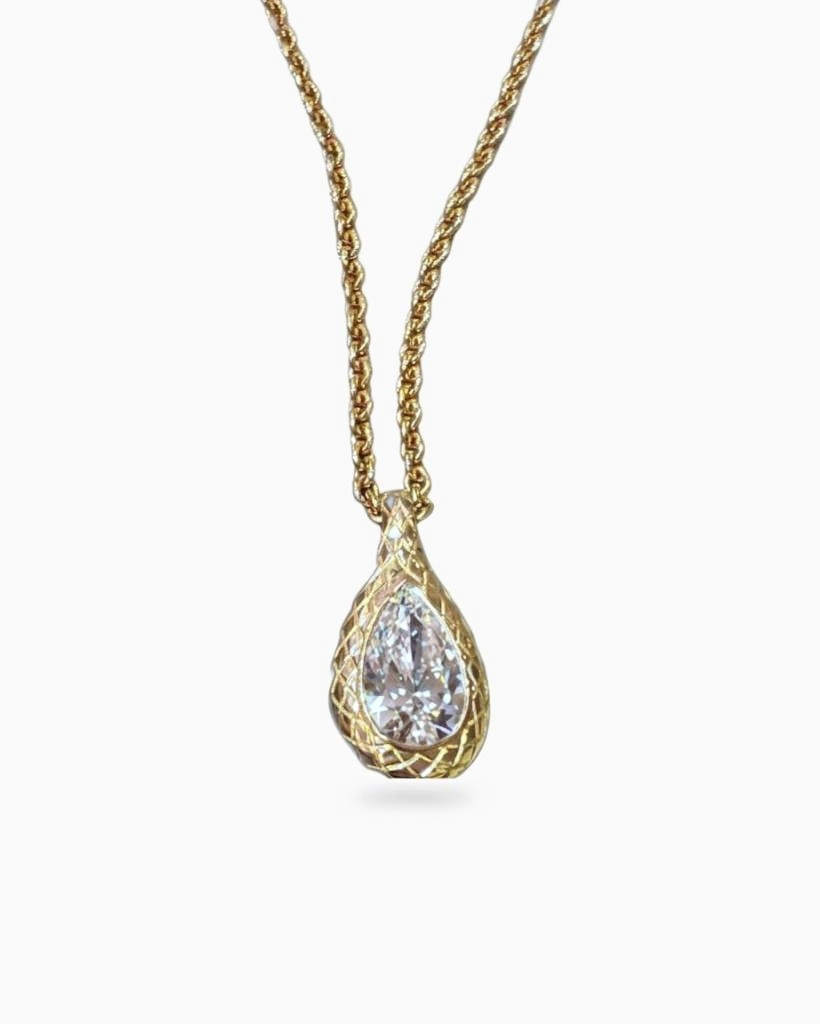
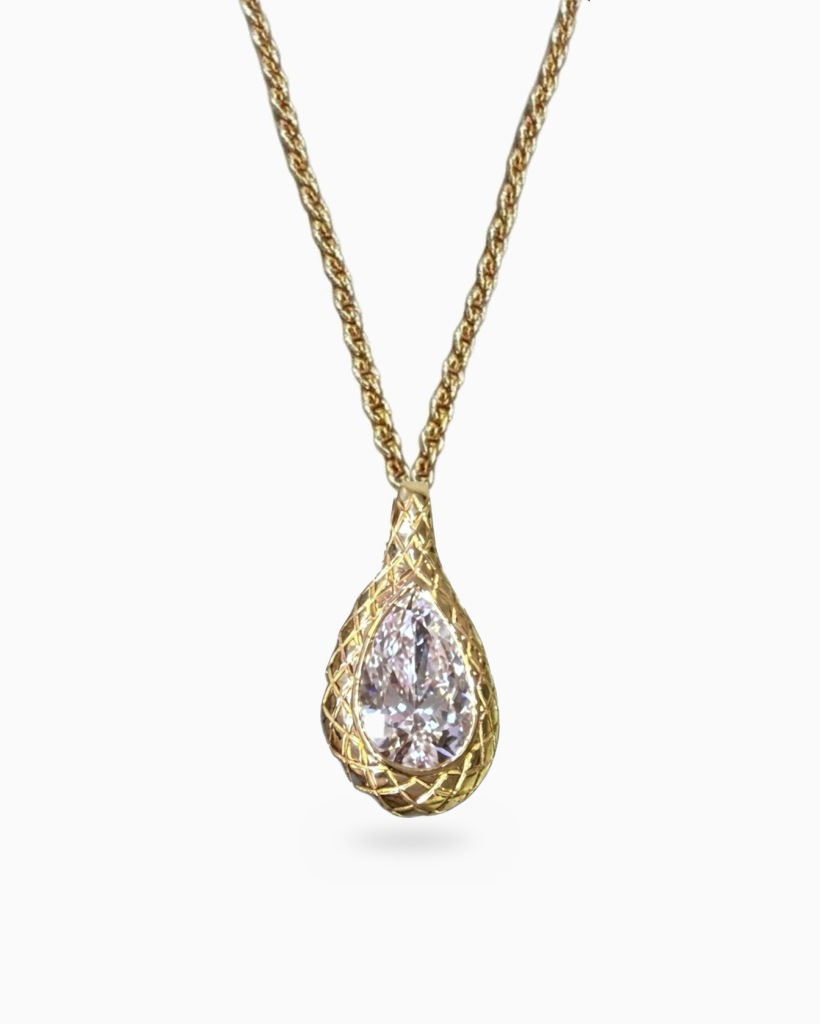
Pendant: rebuild chain to match live pendants (symmetric V, pendant hangs straight, centered)
Claude-Session: https://claude.ai/code/session_017Li8CGHLQNpPXzno2aoPLJ

Changed region(s): [[0.2744, 0.0, 0.7317, 0.8438]]

diff --git a/pendants/pear-lattice-pendant.html b/pendants/pear-lattice-pendant.html
@@ -364,7 +364,7 @@ body{background:#fff}
 <div class="big"><svg xmlns="http://www.w3.org/2000/svg" viewBox="0 0 166 20" fill="currentColor"><path d="M159.144 19.7503C157.212 19.7503 155.401 19.2674 154.484 18.5913C154.943 17.9153 155.208 16.7322 155.112 14.4143H155.305C155.329 18.0602 158.975 19.0984 160.882 19.0984C163.345 19.0984 164.263 17.3117 164.263 15.6216C164.263 13.2071 162.428 11.4928 160.23 10.189C157.236 8.42646 155.546 6.9295 155.546 4.58747C155.546 2.31788 157.14 0.120723 161.631 0.120723C163.079 0.120723 163.804 0.36217 164.48 0L164.552 0.0724342C164.093 0.748483 163.731 2.55933 163.804 4.9255H163.635C163.248 1.03822 161.413 0.651904 160.061 0.651904C158.251 0.651904 156.995 1.25552 156.995 2.9215C156.995 4.90135 158.806 6.7122 161.1 7.99186C164.77 10.0924 165.88 12.0482 165.88 13.8349C165.88 16.3217 164.118 19.7503 159.144 19.7503Z"/><path d="M141.126 19.1464C142.406 18.7601 142.744 16.6353 142.744 15.5971V4.15257C142.744 2.67975 142.116 1.01377 141.126 0.699895V0.506738C141.682 0.579172 142.189 0.627461 144.7 0.627461C147.018 0.627461 151.267 0.337725 153.368 0.434304L153.44 0.506738C152.764 1.52081 152.547 3.25922 152.619 5.16665H152.426C151.339 0.361871 148.515 0.917197 144.917 0.98963C144.796 2.67975 144.796 5.04592 144.796 8.7159L147.114 8.64347C148.346 8.59518 150.374 8.18472 150.736 5.98756H150.929C150.47 7.96742 150.47 9.92313 150.929 11.8788H150.736C150.374 9.70583 148.346 9.24708 147.114 9.22294L144.796 9.17465C144.82 10.9855 144.82 13.1102 144.82 15.5971C144.82 17.6977 145.014 18.7842 146.8 18.7842H147.742C149.794 18.7842 152.619 18.5669 152.619 13.8346H152.788C152.716 16.4663 153.126 18.4945 153.633 19.2671L153.561 19.3395C152.861 19.3637 145.376 19.2188 142.72 19.2188C142.189 19.2188 141.682 19.2671 141.126 19.3395V19.1464Z"/><path d="M129.271 19.7258L121.955 4.22498V15.5971C121.955 17.3355 122.655 18.8566 124.297 19.1463V19.3395C122.051 19.1222 120.627 19.2429 119.299 19.3395V19.1463C120.699 18.8566 121.4 17.3355 121.4 15.5971V3.33163C120.072 1.30348 119.299 1.01374 118.575 0.699866V0.506709C120.579 0.651576 121.762 0.67572 122.897 0.530853L130.188 16.418L135.862 0.603287C137.311 0.651576 138.832 0.627432 140.281 0.506709V0.67572C138.977 0.868877 138.059 1.88295 138.059 4.03182V15.5971C138.059 17.3596 138.76 18.8566 139.677 19.1463V19.3395C138.832 19.2429 135.886 19.1222 133.882 19.3395V19.1463C135.283 18.8566 135.983 17.3355 135.983 15.5971V1.32762L129.44 19.7258H129.271Z"/><path d="M101.114 19.1709C102.66 18.7363 103.746 16.2494 105.291 11.9758L109.589 0.144929H109.758C116.06 17.9154 116.76 18.8328 118.402 19.1709V19.3399C116.036 19.1467 113.669 19.2916 111.569 19.3399V19.1709C113.79 18.7846 114.08 17.4807 111.496 10.9376L106.233 10.841C105.388 13.5452 105.026 15.1387 105.026 16.4667C105.026 18.8328 106.426 19.0501 107.295 19.1709V19.3399C105.219 19.2916 103.191 19.1709 101.114 19.3399V19.1709ZM106.329 10.5512L111.303 10.4547L108.647 3.74247C107.657 6.59154 106.909 8.78869 106.329 10.5512Z"/><path d="M94.7367 19.75C92.9983 19.75 92.105 19.2671 91.1875 18.591C91.6462 17.915 91.9118 16.7319 91.8152 14.414H92.0084C92.0084 17.915 94.6643 19.1946 96.2578 19.1946C98.4308 19.1946 99.0344 16.8043 99.0344 15.5971V4.24912C99.0344 2.51071 98.3343 0.9896 96.6924 0.699866V0.506709C98.2618 0.651576 101.207 0.67572 102.729 0.506709V0.699866C101.811 0.9896 101.111 2.51071 101.111 4.24912L101.111 13.8345C101.111 16.7802 98.962 19.75 94.7367 19.75Z"/><path d="M68.1439 19.1709C69.6891 18.7363 70.7756 16.2494 72.3209 11.9758L76.6186 0.144929H76.7876C83.0894 17.9154 83.7896 18.8328 85.4314 19.1709V19.3399C83.0652 19.1467 80.6991 19.2916 78.5985 19.3399V19.1709C80.8198 18.7846 81.1095 17.4807 78.526 10.9376L73.2625 10.841C72.4175 13.5452 72.0553 15.1387 72.0553 16.4667C72.0553 18.8328 73.4557 19.0501 74.3249 19.1709V19.3399C72.2484 19.2916 70.2203 19.1709 68.1439 19.3399V19.1709ZM73.3591 10.5512L78.3329 10.4547L75.677 3.74247C74.6871 6.59154 73.9386 8.78869 73.3591 10.5512Z"/><path d="M67.5024 19.4361C66.7539 19.1946 59.5588 19.2429 56.8788 19.2429C56.2993 19.2429 55.7923 19.2671 55.2611 19.3395V19.1463C56.5166 18.76 56.8788 16.6594 56.8788 15.5971V4.1284C56.8788 2.65558 56.251 1.01374 55.2611 0.699866V0.506709C56.1544 0.603287 59.1242 0.699866 61.1041 0.506709V0.699866C59.583 1.01374 58.9552 2.65558 58.9552 4.1284V15.5971C58.9552 17.6977 59.1725 18.8083 60.9351 18.8083H61.9008C63.6875 18.8083 66.4883 18.591 66.4883 13.8345H66.6815C66.609 16.4663 66.9954 18.5186 67.5507 19.3636L67.5024 19.4361Z"/><path d="M54.5473 19.4361C53.7988 19.1946 46.6037 19.2429 43.9237 19.2429C43.3442 19.2429 42.8372 19.2671 42.306 19.3395V19.1463C43.5615 18.76 43.9237 16.6594 43.9237 15.5971V4.1284C43.9237 2.65558 43.2959 1.01374 42.306 0.699866V0.506709C43.1993 0.603287 46.1691 0.699866 48.149 0.506709V0.699866C46.6279 1.01374 46.0001 2.65558 46.0001 4.1284V15.5971C46.0001 17.6977 46.2174 18.8083 47.98 18.8083H48.9457C50.7324 18.8083 53.5332 18.591 53.5332 13.8345H53.7264C53.6539 16.4663 54.0403 18.5186 54.5956 19.3636L54.5473 19.4361Z"/><path d="M28.7379 19.1464C30.0175 18.7601 30.3555 16.6353 30.3555 15.5971V4.15257C30.3555 2.67975 29.7278 1.01377 28.7379 0.699895V0.506738C29.2932 0.579172 29.8002 0.627461 32.3113 0.627461C34.6291 0.627461 38.8786 0.337725 40.9792 0.434304L41.0516 0.506738C40.3756 1.52081 40.1583 3.25922 40.2307 5.16665H40.0375C38.951 0.361871 36.1261 0.917197 32.5286 0.98963C32.4078 2.67975 32.4078 5.04592 32.4078 8.7159L34.7257 8.64347C35.9571 8.59518 37.9852 8.18472 38.3474 5.98756H38.5406C38.0818 7.96742 38.0818 9.92313 38.5406 11.8788H38.3474C37.9852 9.70583 35.9571 9.24708 34.7257 9.22294L32.4078 9.17465C32.432 10.9855 32.432 13.1102 32.432 15.5971C32.432 17.6977 32.6251 18.7842 34.4118 18.7842H35.3535C37.4058 18.7842 40.2307 18.5669 40.2307 13.8346H40.3997C40.3273 16.4663 40.7377 18.4945 41.2448 19.2671L41.1723 19.3395C40.4721 19.3637 32.9873 19.2188 30.3314 19.2188C29.8002 19.2188 29.2932 19.2671 28.7379 19.3395V19.1464Z"/><path d="M17.1408 19.1467C18.0583 18.857 18.7585 17.3359 18.7585 15.5975V4.17708C18.7585 2.0765 18.517 1.03829 16.8027 1.03829H16.3681C15.4024 1.03829 12.6016 1.25559 12.6016 6.01207H12.4084C12.4809 3.38031 12.0945 1.32802 11.5875 0.57954L11.6358 0.507105C12.336 0.482961 17.0683 0.603684 19.8208 0.603684C21.849 0.603684 27.3056 0.482961 28.0058 0.507105L28.0541 0.57954C27.5471 1.32802 27.1366 3.38031 27.2332 6.01207H27.04C27.04 1.25559 24.2151 1.03829 23.2735 1.03829H22.8389C21.0522 1.03829 20.8349 2.14894 20.8349 4.17708V15.5975C20.8349 17.3359 21.5351 18.857 22.4526 19.1467V19.3399C20.9315 19.1226 17.9858 19.2433 17.1408 19.3399V19.1467Z"/><path d="M4.65991 19.7503C2.72834 19.7503 0.917495 19.2674 0 18.5913C0.458747 17.9153 0.724338 16.7322 0.62776 14.4143H0.820916C0.845061 18.0602 4.49089 19.0984 6.39832 19.0984C8.86106 19.0984 9.77856 17.3117 9.77856 15.6216C9.77856 13.2071 7.94357 11.4928 5.74641 10.189C2.75248 8.42646 1.06236 6.9295 1.06236 4.58747C1.06236 2.31788 2.6559 0.120723 7.1468 0.120723C8.59548 0.120723 9.31981 0.36217 9.99586 0L10.0683 0.0724342C9.60955 0.748483 9.24738 2.55933 9.31981 4.9255H9.1508C8.76449 1.03822 6.9295 0.651904 5.5774 0.651904C3.76656 0.651904 2.51104 1.25552 2.51104 2.9215C2.51104 4.90135 4.32188 6.7122 6.61562 7.99186C10.2856 10.0924 11.3962 12.0482 11.3962 13.8349C11.3962 16.3217 9.63369 19.7503 4.65991 19.7503Z"/></svg></div><div class="lf__bt"><span>© 2025, Stella James Jewelry</span><span>Terms of use</span><span>Privacy statement</span><span>Design by Maison Lotan</span></div></div></footer>
 <script>function ZOOM(el,z){if(!el||el._z)return;el._z=1;el.classList.add('zm');el.addEventListener('mousemove',e=>{const i=el.querySelector('img');if(!i)return;const r=el.getBoundingClientRect();i.style.transformOrigin=((e.clientX-r.left)/r.width*100).toFixed(1)+'% '+((e.clientY-r.top)/r.height*100).toFixed(1)+'%';i.style.transform='scale('+(z||2.2)+')'});el.addEventListener('mouseleave',()=>{const i=el.querySelector('img');if(i)i.style.transform=''})}
 document.querySelectorAll('.exp .erow a').forEach(a=>{const w=document.createElement('div');w.style.cssText='overflow:hidden;position:relative';const i=a.querySelector('img');i.replaceWith(w);w.appendChild(i);ZOOM(w,1.1)});
-const GAL={"Diamond": ["images/pear-lattice/diamond-main.jpg?v=12", "images/pear-lattice/diamond-pendant.jpg?v=12", "images/pear-lattice/tray.jpg?v=10", "images/pear-lattice/tray-hand.jpg?v=10", "images/pear-lattice/lifestyle.jpg?v=10"], "Emerald": ["images/pear-lattice/emerald-main.jpg?v=12", "images/pear-lattice/emerald-pendant.jpg?v=12", "images/pear-lattice/tray.jpg?v=10", "images/pear-lattice/tray-hand.jpg?v=10", "images/pear-lattice/lifestyle.jpg?v=10"]};const DESC={"Diamond": ["A striking {c} pear-shaped diamond, cradled in an 18K gold teardrop engraved with a fine crosshatch pattern that wraps around the stone like woven light. The engraving catches the light from every angle, while the soft teardrop silhouette keeps it effortless to wear every day.", "Sold as the pendant only, chain not included. Available in 4, 5, 6 and 7 carats, in diamond or emerald.", "A modern heirloom made to be worn your way."], "Emerald": ["A vivid {c} pear-shaped emerald, its deep green glow held in an 18K gold teardrop engraved with a fine crosshatch pattern that wraps around the stone like woven light. The engraving frames the color from every angle, while the soft teardrop silhouette keeps it effortless to wear every day.", "Sold as the pendant only, chain not included. Available in 4, 5, 6 and 7 carats, in emerald or diamond.", "A modern heirloom made to be worn your way."]};
+const GAL={"Diamond": ["images/pear-lattice/diamond-main.jpg?v=13", "images/pear-lattice/diamond-pendant.jpg?v=13", "images/pear-lattice/tray.jpg?v=10", "images/pear-lattice/tray-hand.jpg?v=10", "images/pear-lattice/lifestyle.jpg?v=10"], "Emerald": ["images/pear-lattice/emerald-main.jpg?v=13", "images/pear-lattice/emerald-pendant.jpg?v=13", "images/pear-lattice/tray.jpg?v=10", "images/pear-lattice/tray-hand.jpg?v=10", "images/pear-lattice/lifestyle.jpg?v=10"]};const DESC={"Diamond": ["A striking {c} pear-shaped diamond, cradled in an 18K gold teardrop engraved with a fine crosshatch pattern that wraps around the stone like woven light. The engraving catches the light from every angle, while the soft teardrop silhouette keeps it effortless to wear every day.", "Sold as the pendant only, chain not included. Available in 4, 5, 6 and 7 carats, in diamond or emerald.", "A modern heirloom made to be worn your way."], "Emerald": ["A vivid {c} pear-shaped emerald, its deep green glow held in an 18K gold teardrop engraved with a fine crosshatch pattern that wraps around the stone like woven light. The engraving frames the color from every angle, while the soft teardrop silhouette keeps it effortless to wear every day.", "Sold as the pendant only, chain not included. Available in 4, 5, 6 and 7 carats, in emerald or diamond.", "A modern heirloom made to be worn your way."]};
 let stone='Diamond',idx=0;const gal=document.getElementById('gal'),dots=document.getElementById('dots'),T=document.getElementById('thumbs');
 const img=document.createElement('img');img.alt='Pear lattice pendant';gal.prepend(img);ZOOM(gal,1.2);gal.insertAdjacentHTML('beforeend','<span class="zh">Hover to zoom</span>');
 function show(n){const L=GAL[stone];idx=(n+L.length)%L.length;img.style.opacity=0;setTimeout(()=>{img.src=L[idx];img.style.opacity=1},120);

diff --git a/pendants/index.html b/pendants/index.html
@@ -344,7 +344,7 @@ body{background:#fff}
 <div class="cpills"><a href="https://www.stella-james.com/collections/love-letters-pendants">Love Letters</a><i>|</i><a href="../earrings/index.html">Earrings</a><i>|</i><a href="index.html">Pendants</a><i>|</i><a href="https://www.stella-james.com/collections/rings">Rings</a></div>
 <h1 class="ctitle">Pendants</h1>
 <p class="cintro">Each Stella James pendant is designed to hold a feeling, a memory, or a sense of self. Crafted from custom cut lab-grown diamonds and set in precious metal, these pieces are luminous markers of the moments and meanings that shape us.</p>
-<section class="cgrid" id="cg"><a class="cc" href="pear-lattice-pendant.html"><div class="im"><span class="tagN">New</span><img alt="The Pear Lattice Pendant" src="images/pear-lattice/diamond-card.jpg?v=12"></div><h3>The Pear Lattice Pendant</h3><p>Price to confirm</p></a><a class="cc" href="https://www.stella-james.com/items/the-white-stella-s-star"><div class="im"><img alt="The white Stella Star" src="https://cdn.shopify.com/s/files/1/0630/8931/1840/files/IMG-4259.png?width=900" loading="lazy"></div><h3>The white Stella Star</h3><p>$4,950.00</p></a><a class="cc" href="https://www.stella-james.com/items/the-pear-pendant"><div class="im"><img alt="The Pear Pendant" src="https://cdn.shopify.com/s/files/1/0630/8931/1840/files/IMG-3833.png?width=900" loading="lazy"></div><h3>The Pear Pendant</h3><p>$2,990.00</p></a><a class="cc" href="https://www.stella-james.com/items/the-oval"><div class="im"><img alt="The oval Pendant" src="https://cdn.shopify.com/s/files/1/0630/8931/1840/files/30154578-6B2B-4269-A241-9938ADD4B24E.jpg?width=900" loading="lazy"></div><h3>The oval Pendant</h3><p>$4,100.00</p></a><a class="cc" href="https://www.stella-james.com/items/untitled-sep1410-38-37"><div class="im"><img alt="The Signature Pear Pendant" src="https://cdn.shopify.com/s/files/1/0630/8931/1840/files/D98D2B5B-BC60-4044-B0E8-A7EE46E85D72.jpg?width=900" loading="lazy"></div><h3>The Signature Pear Pendant</h3><p>$5,650.00</p></a><a class="cc" href="https://www.stella-james.com/items/untitled-sep1123-58-21"><div class="im"><img alt="The Pear Drop Pendant" src="https://cdn.shopify.com/s/files/1/0630/8931/1840/files/22891316-A7E1-487B-99B3-EAD490BA43DB.jpg?width=900" loading="lazy"></div><h3>The Pear Drop Pendant</h3><p>$5,400.00</p></a></section>
+<section class="cgrid" id="cg"><a class="cc" href="pear-lattice-pendant.html"><div class="im"><span class="tagN">New</span><img alt="The Pear Lattice Pendant" src="images/pear-lattice/diamond-main.jpg?v=13"></div><h3>The Pear Lattice Pendant</h3><p>Price to confirm</p></a><a class="cc" href="https://www.stella-james.com/items/the-white-stella-s-star"><div class="im"><img alt="The white Stella Star" src="https://cdn.shopify.com/s/files/1/0630/8931/1840/files/IMG-4259.png?width=900" loading="lazy"></div><h3>The white Stella Star</h3><p>$4,950.00</p></a><a class="cc" href="https://www.stella-james.com/items/the-pear-pendant"><div class="im"><img alt="The Pear Pendant" src="https://cdn.shopify.com/s/files/1/0630/8931/1840/files/IMG-3833.png?width=900" loading="lazy"></div><h3>The Pear Pendant</h3><p>$2,990.00</p></a><a class="cc" href="https://www.stella-james.com/items/the-oval"><div class="im"><img alt="The oval Pendant" src="https://cdn.shopify.com/s/files/1/0630/8931/1840/files/30154578-6B2B-4269-A241-9938ADD4B24E.jpg?width=900" loading="lazy"></div><h3>The oval Pendant</h3><p>$4,100.00</p></a><a class="cc" href="https://www.stella-james.com/items/untitled-sep1410-38-37"><div class="im"><img alt="The Signature Pear Pendant" src="https://cdn.shopify.com/s/files/1/0630/8931/1840/files/D98D2B5B-BC60-4044-B0E8-A7EE46E85D72.jpg?width=900" loading="lazy"></div><h3>The Signature Pear Pendant</h3><p>$5,650.00</p></a><a class="cc" href="https://www.stella-james.com/items/untitled-sep1123-58-21"><div class="im"><img alt="The Pear Drop Pendant" src="https://cdn.shopify.com/s/files/1/0630/8931/1840/files/22891316-A7E1-487B-99B3-EAD490BA43DB.jpg?width=900" loading="lazy"></div><h3>The Pear Drop Pendant</h3><p>$5,400.00</p></a></section>
 
 <section class="exp"><h2>Explore All Collections</h2><div class="erow"><a href="https://www.stella-james.com/collections/love-letters"><img src="https://cdn.prod.website-files.com/6800032555e25721a3be6721/69851e5ffd338da9433b5fbe_Stella_James.jpg" alt="Love Letters" loading="lazy"><h3>Love Letters</h3><p>Our signature diamond letter pendants made for our love ones</p><span>Shop Love Letters</span></a><a href="https://www.stella-james.com/collections/love-letters-earrings"><img src="https://cdn.prod.website-files.com/6800032555e25721a3be6721/69851e648b2465bb9ddbdce3_Stella_James%20(1).jpg" alt="Earrings" loading="lazy"><h3>Earrings</h3><p>Elevated diamond essentials for everyday elegance</p><span>Shop Earrings</span></a><a href="https://www.stella-james.com/collections/pendants"><img src="https://cdn.prod.website-files.com/6800032555e25721a3be6721/69851e587c04ca1f651a7e28_Stella_James%20(2).jpg" alt="Pendants" loading="lazy"><h3>Pendants</h3><p>Timeless diamond pendant crafted with refined clarity and understated elegance</p><span>Shop Pendants</span></a><a href="https://www.stella-james.com/collections/rings"><img src="https://cdn.prod.website-files.com/6800032555e25721a3be6721/69851e915b7e42f365821ee1_Stella_James.jpg" alt="Rings" loading="lazy"><h3>Rings</h3><p>Timeless diamond rings for every moment</p><span>Shop Rings</span></a></div></section>
 <section class="duoL"><div><span class="k">Need guidance?</span><h2>Talk to a Specialist</h2><p>We’re here to help you find your perfect combination. Whether selecting your first letter, curating a meaningful set, or creating a piece that tells your story.</p><a class="wa" href="https://wa.me/19398456949"><svg viewBox="0 0 24 24" fill="none" stroke="currentColor" stroke-width="1.3"><path d="M3.5 20.5l1.3-4A8.5 8.5 0 1 1 8 19.7z"/><path d="M9 8.6c.2-.5.4-.6.8-.6h.5c.2 0 .4.1.5.4l.7 1.6c.1.2 0 .5-.1.6l-.5.6c-.1.2-.1.4 0 .6.6 1 1.4 1.8 2.4 2.4.2.1.4.1.6 0l.6-.5c.2-.1.4-.2.6-.1l1.6.7c.3.1.4.3.4.5v.5c0 .4-.1.6-.6.8-.7.3-1.6.4-2.6 0-1.8-.7-3.6-2.5-4.3-4.3-.4-1-.3-1.9 0-2.6z"/></svg> Chat on WhatsApp</a></div>
